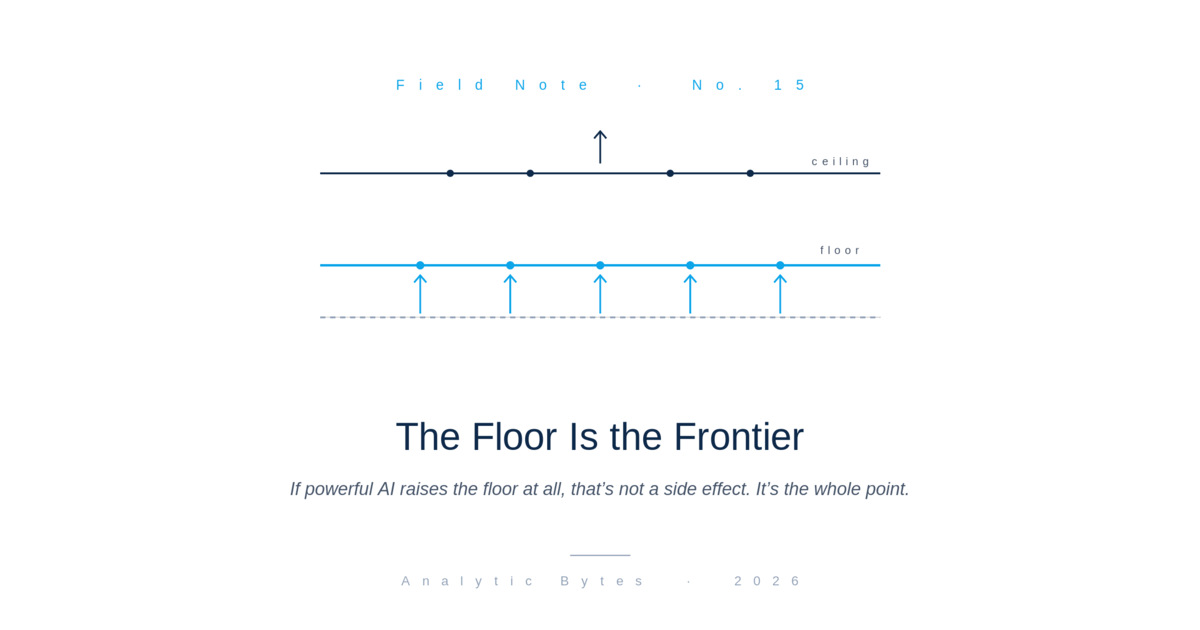
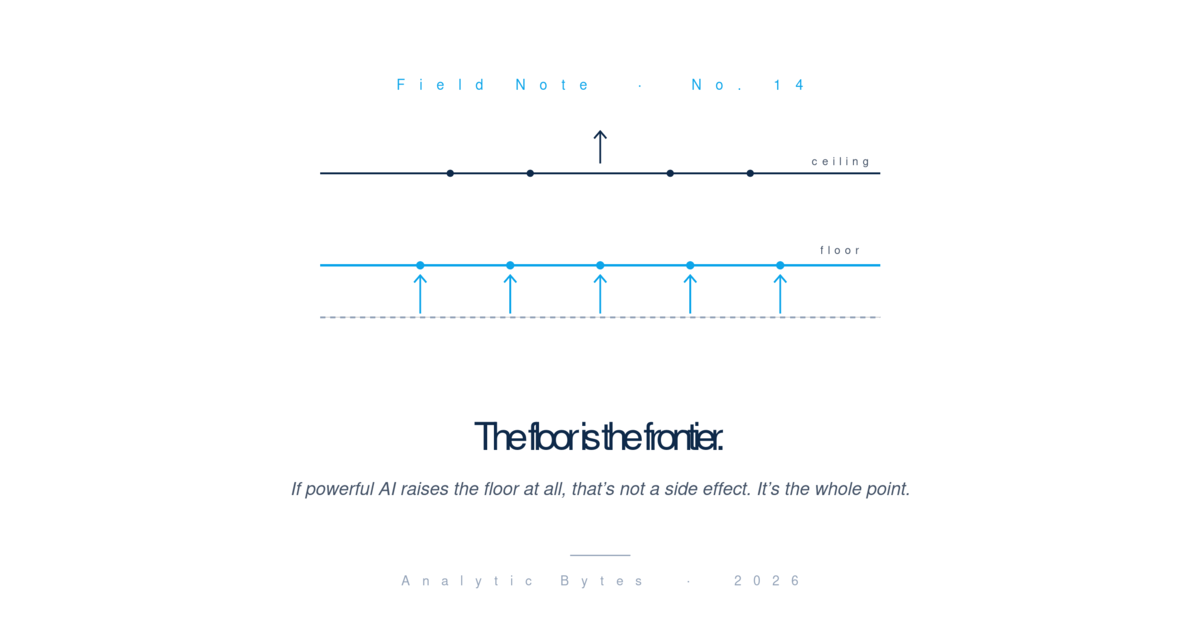
Cover number fixes + Seven Causes figure layout + font readability retrofit v2 + citation hyperlinks

diff --git a/app/library/essays.tsx b/app/library/essays.tsx
@@ -8391,7 +8391,7 @@ export const ESSAYS: Essay[] = [
           I spent my early career in educational measurement. In that field, before an instrument is used to decide something about a person, you are required to argue for it.
         </P>
         <P>
-          Messick wrote the consequences of use into the definition rather than appending them to it. Validity, in his words, is &ldquo;an integrated evaluative judgment of the degree to which empirical evidence and theoretical rationales support the adequacy and appropriateness of inferences and actions based on test scores or other modes of assessment&rdquo; (Messick, <I>Educational Measurement</I>, 3rd ed., 1989, p. 13).
+          Messick wrote the consequences of use into the definition rather than appending them to it. Validity, in his words, is &ldquo;an integrated evaluative judgment of the degree to which empirical evidence and theoretical rationales support the adequacy and appropriateness of inferences and actions based on test scores or other modes of assessment&rdquo; (<a href="https://onlinelibrary.wiley.com/doi/10.1002/j.2333-8504.1988.tb00306.x" target="_blank" rel="noopener" className="text-accent hover:text-accent-2 no-underline border-b border-line-2 hover:border-accent pb-px">Messick</a>, <I>Educational Measurement</I>, 3rd ed., 1989, p. 13).
         </P>
         <P>
           Two phrases carry the weight here. <B>Actions</B>, which puts what a score is used to do inside the definition. And <B>other modes of assessment</B>, which is Messick extending validity to means beyond tests.
@@ -8412,16 +8412,16 @@ export const ESSAYS: Essay[] = [
           <B>Construct-irrelevant variance.</B> R&eacute;sum&eacute;-writing skill. Formatting compatibility. Prestige of prior employers and institutions. Name effects. All of these vary across candidates. None of them is the construct, and none of them is detected.
         </P>
         <P>
-          Kane supplies the apparatus. He reframed validation as an argument you write down: state how the score will be interpreted and used, then evaluate each inference in the chain (Kane, &ldquo;Validating the interpretations and uses of test scores,&rdquo; <I>Journal of Educational Measurement</I>, 50(1), 2013). Apply that to a screen and four inferences need backing, which is <InternalLink slug="the-valid-dollar">the same chain I ran against a spending decision</InternalLink>, pointed at a person.
+          Kane supplies the apparatus. He reframed validation as an argument you write down: state how the score will be interpreted and used, then evaluate each inference in the chain (<a href="https://onlinelibrary.wiley.com/doi/10.1111/jedm.12000" target="_blank" rel="noopener" className="text-accent hover:text-accent-2 no-underline border-b border-line-2 hover:border-accent pb-px">Kane</a>, &ldquo;Validating the interpretations and uses of test scores,&rdquo; <I>Journal of Educational Measurement</I>, 50(1), 2013). Apply that to a screen and four inferences need backing, which is <InternalLink slug="the-valid-dollar">the same chain I ran against a spending decision</InternalLink>, pointed at a person.
         </P>
         <P>
           The document becomes a match score. The score stands in for the candidate&rsquo;s typical work. The score predicts performance on the job. The score justifies the decision.
         </P>
         <P>
-          There is a large literature showing that r&eacute;sum&eacute;-derived variables correlate with later outcomes (Schmidt &amp; Hunter, &ldquo;The validity and utility of selection methods in personnel psychology: Practical and theoretical implications of 85 years of research findings,&rdquo; <I>Psychological Bulletin</I>, 124(2), 1998). That literature does not finish this argument, and pointing at it is the usual way of avoiding the question. Kane&rsquo;s question is narrower. Does this screen, applied to this requisition, support each of those four steps, for this population, at this threshold, for this decision. A general result about predictors is not a validity argument for a particular instrument in a particular use.
+          There is a large literature showing that r&eacute;sum&eacute;-derived variables correlate with later outcomes (<a href="https://psycnet.apa.org/doi/10.1037/0033-2909.124.2.262" target="_blank" rel="noopener" className="text-accent hover:text-accent-2 no-underline border-b border-line-2 hover:border-accent pb-px">Schmidt &amp; Hunter</a>, &ldquo;The validity and utility of selection methods in personnel psychology: Practical and theoretical implications of 85 years of research findings,&rdquo; <I>Psychological Bulletin</I>, 124(2), 1998). That literature does not finish this argument, and pointing at it is the usual way of avoiding the question. Kane&rsquo;s question is narrower. Does this screen, applied to this requisition, support each of those four steps, for this population, at this threshold, for this decision. A general result about predictors is not a validity argument for a particular instrument in a particular use.
         </P>
         <P>
-          That particular argument is what is rarely written down anywhere a reader can see it &mdash; including at the standard the field itself names (Society for Industrial and Organizational Psychology, <I>Principles for the Validation and Use of Personnel Selection Procedures</I>, 5th ed., 2018).
+          That particular argument is what is rarely written down anywhere a reader can see it &mdash; including at the standard the field itself names (<a href="https://www.apa.org/ed/accreditation/about/policies/personnel-selection-procedures.pdf" target="_blank" rel="noopener" className="text-accent hover:text-accent-2 no-underline border-b border-line-2 hover:border-accent pb-px">Society for Industrial and Organizational Psychology</a>, <I>Principles for the Validation and Use of Personnel Selection Procedures</I>, 5th ed., 2018).
         </P>
 
         <H2>The requirement has no time index</H2>
@@ -8520,7 +8520,7 @@ export const ESSAYS: Essay[] = [
           So the harm is invisible to the party positioned to fix it. Ordinary post-hire performance data cannot reveal it, because the screen decides who enters that data.
         </P>
         <P>
-          Range restriction is a known problem, not a novel one (Sackett &amp; Yang, &ldquo;Correction for range restriction: An expanded typology,&rdquo; <I>Journal of Applied Psychology</I>, 85(1), 2000). Corrections exist. They require observing performance on rejected candidates, which is exactly the observation the screen prevents.
+          Range restriction is a known problem, not a novel one (<a href="https://psycnet.apa.org/doi/10.1037/0021-9010.85.1.112" target="_blank" rel="noopener" className="text-accent hover:text-accent-2 no-underline border-b border-line-2 hover:border-accent pb-px">Sackett &amp; Yang</a>, &ldquo;Correction for range restriction: An expanded typology,&rdquo; <I>Journal of Applied Psychology</I>, 85(1), 2000). Corrections exist. They require observing performance on rejected candidates, which is exactly the observation the screen prevents.
         </P>
         <P>
           There are ways around this. Audit sampling. Following rejected candidates who were hired elsewhere. Quasi-experimental designs that admit a few people below the threshold. Each of them works. None of them is ordinary practice, and none of them is what a validity coefficient computed on hires is doing.
